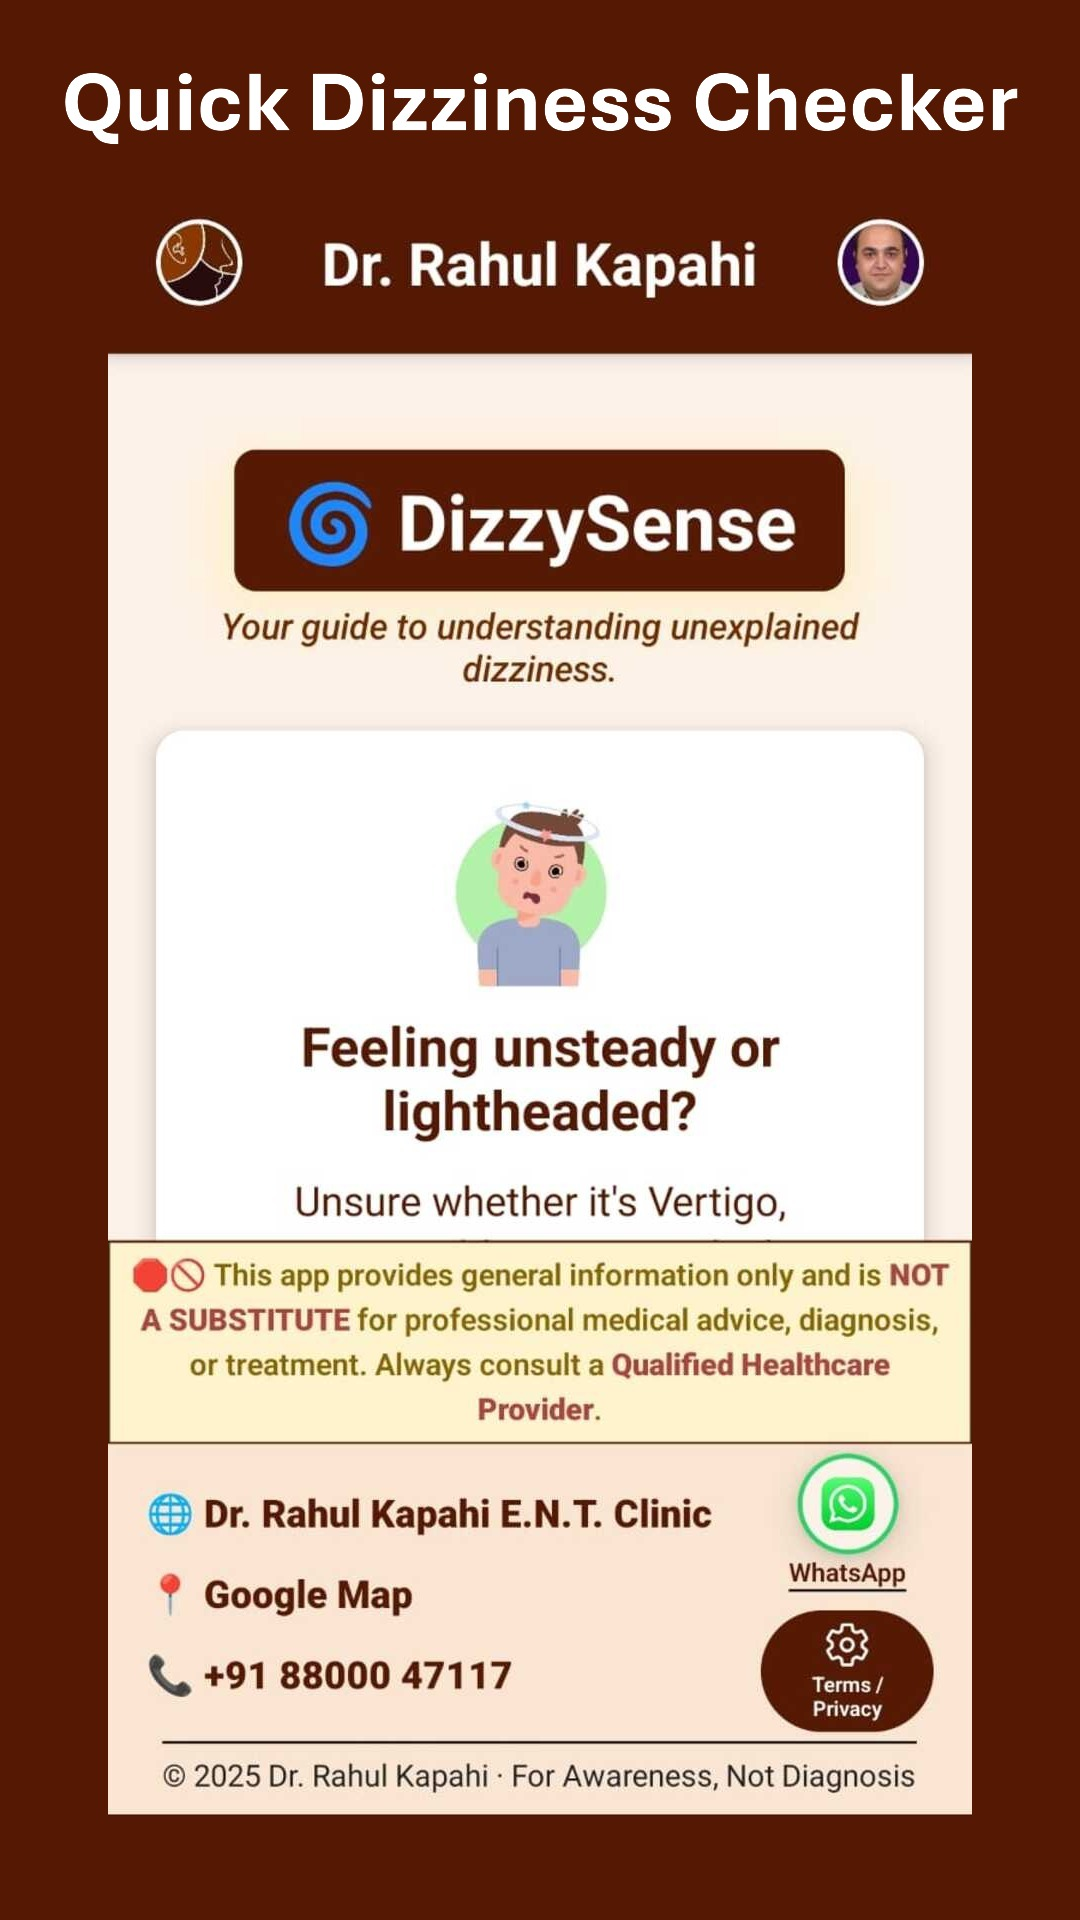
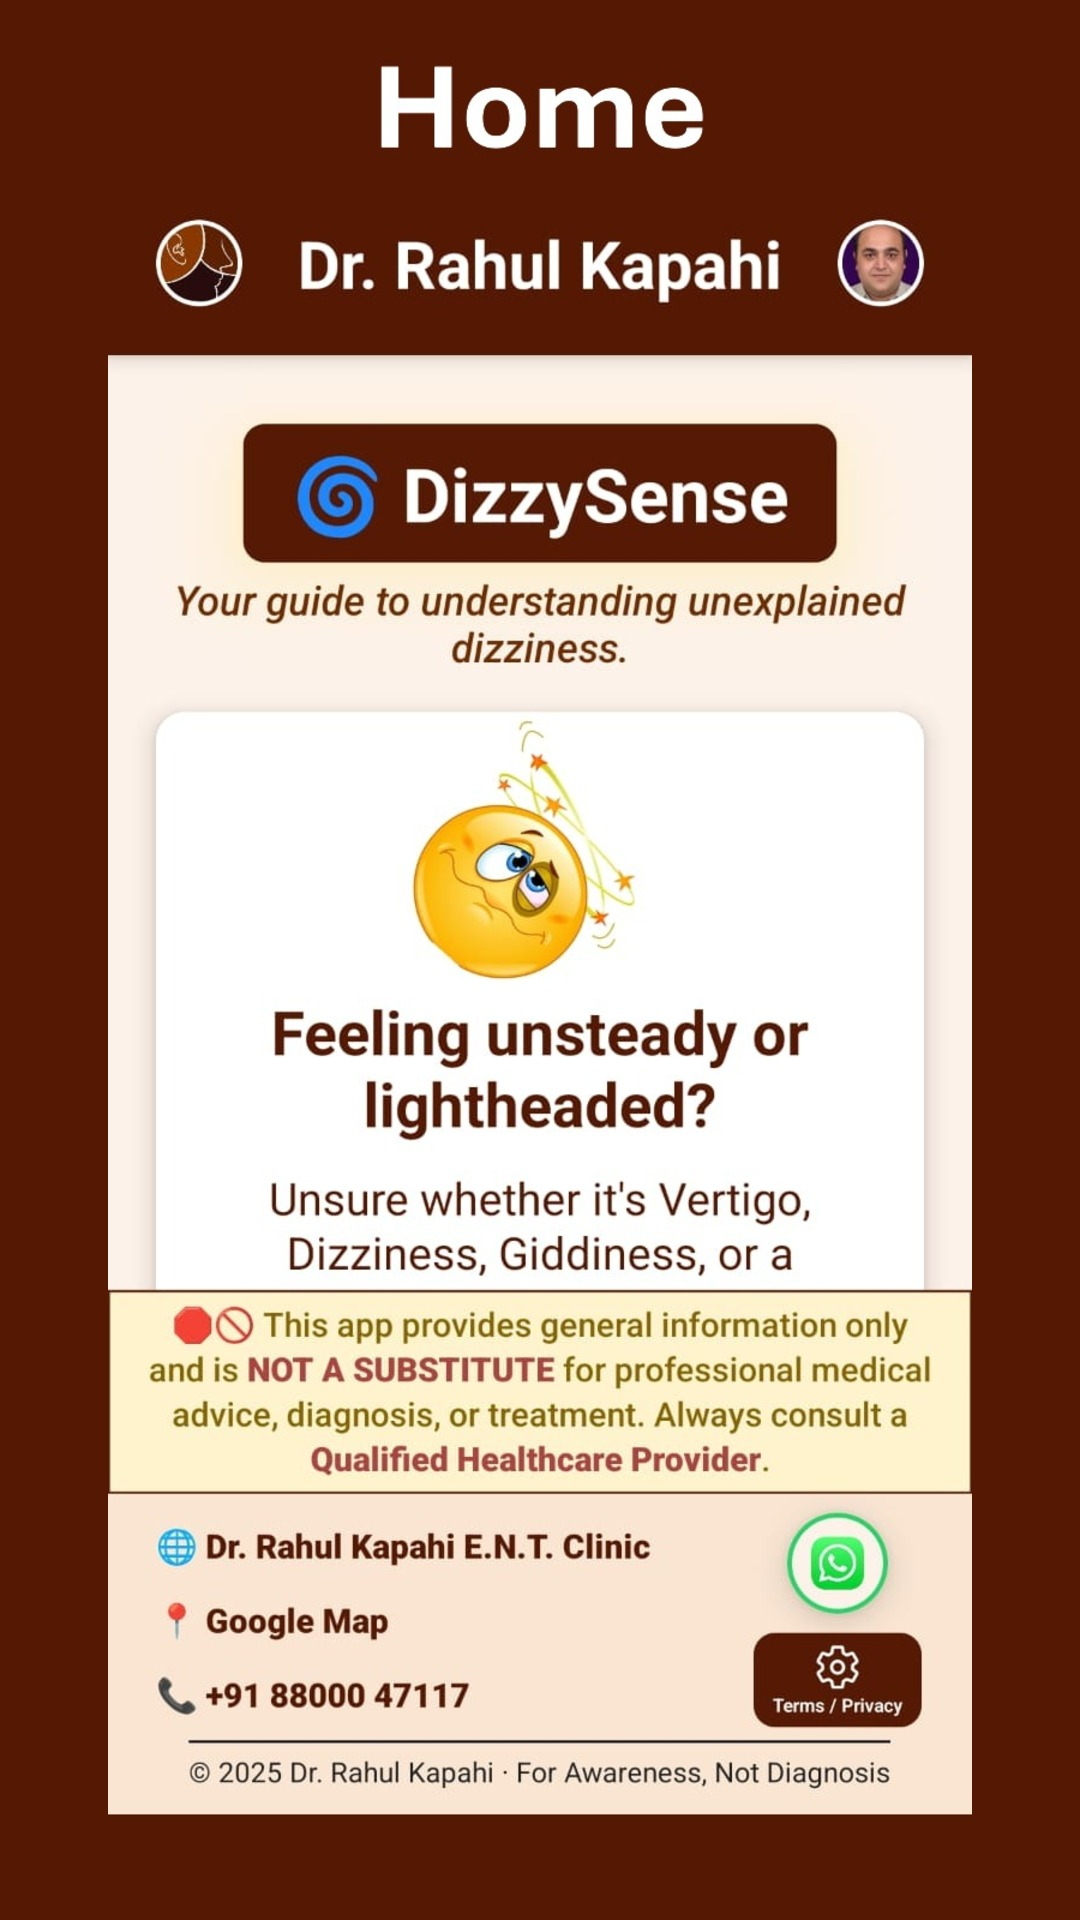
remove lottie animation and json for same, update app.json, package.json, index.tsx - new animated image to replace lottie

diff --git a/app/index.tsx b/app/index.tsx
@@ -4,11 +4,17 @@ import {
   StyleSheet,
   TouchableOpacity,
   ScrollView,
+  Image,
 } from "react-native";
 import { Link, Stack } from "expo-router";
 import CustomHeader from "./components/CustomHeader";
-import LottieView from "lottie-react-native";
 import { RFValue } from "react-native-responsive-fontsize";
+import * as Animatable from "react-native-animatable";
+
+const spin: Animatable.CustomAnimation = {
+  from: { transform: [{ rotate: "0deg" }] },
+  to: { transform: [{ rotate: "360deg" }] },
+};
 
 export default function HomeScreen() {
   return (
@@ -38,11 +44,13 @@ export default function HomeScreen() {
 
         <View style={styles.card}>
           <View style={styles.headingRow}>
-            <LottieView
-              source={require("../assets/animations/dizzy.json")}
-              autoPlay
-              loop
-              style={{ width: 96, height: 96, marginRight: 8 }}
+            <Animatable.Image
+              animation={spin as any}
+              iterationCount="infinite"
+              duration={5000}
+              easing="linear"
+              source={require("../assets/images/dizzy_face.png")}
+              style={styles.image}
             />
             <Text
               accessibilityRole="header"
@@ -184,5 +192,10 @@ const styles = StyleSheet.create({
     fontWeight: "bold",
     color: "#551802",
     textAlign: "center",
+  },
+  image: {
+    width: 96,
+    height: 96,
+    marginRight: 8,
   },
 });
